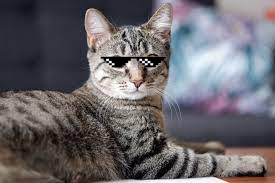
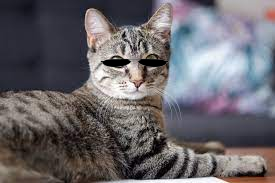
commit

Changed region(s): [[0.3491, 0.3005, 0.6109, 0.3825]]

diff --git a/main.py b/main.py
@@ -9,7 +9,7 @@ image = cv2.imread(image_path)
 cat_face = cat_face_cascade.detectMultiScale(image)
 
 cat = Image.open(image_path)
-glasses = Image.open('glasses.png')
+glasses = Image.open('glasses2.png')
 cat = cat.convert("RGBA")
 glasses = glasses.convert("RGBA")
 
